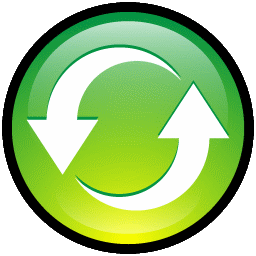
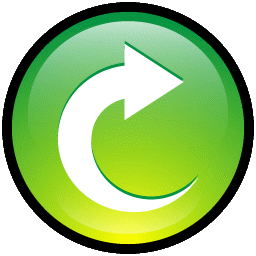
autoplay working pretty work

Changed region(s): [[0.0938, 0.1562, 0.9062, 0.8125], [0.4375, 0.8125, 0.625, 0.8438], [0.4688, 0.5312, 0.5312, 0.5938]]

diff --git a/jumbodrum.js b/jumbodrum.js
@@ -25,10 +25,11 @@ var textInput = "";
 
 var repertoire = {};
 var repertoireInfo = {'type':"", 'pos':-1};
-repertoire['SahmChae']= {'1':"j--g--h--f--h--g--j--g--h--f--h--g--j--g--h--f--h--g--j--g--h--f--h--g--j--g--h--f--h--g--j--g--h--f--h--g--j--g--h--f--h--g--j--f--j--f--j--f--", '2':"h-g-h-g---h-g-h-g---j--g--u---g--u---g--h-g-h-g-----h-g-h-g-----j--g--u---g--u---g--", '3':"j--r---h--g--u---g--j--g--u---g--u---g--j--r---h--g--u---g--j--g--u---g--u---g--"};
+repertoire['SahmChae']= {'1':"j--g--h--f--h--g--j--g--h--f--h--g--j--g--h--f--h--g--j--g--h--f--h--g--j--g--h--f--h--g--j--g--h--f--h--g--j--g--h--f--h--g--j--f--j--f--j--f--", '2':"h-g-h-g-----h-g-h-g-----j--g--u--g--u--g--h-g-h-g-----h-g-h-g-----j--g--u--g--u--g--", '3':"j--r--h--g--u--g--j--g--u--g--u--g--j--r--h--g--u--g--j--g--u--g--u--g--", "4":"j--r--h--g--u--g--j--r--h--g--u--g--j--r--h--g--u--g--j--r--u--r--u--r--", "5":"u-r-u-r-----h-g-h-g-----j--g--u--g--u--g--h-g-h-g-----u-r-u-r-----j--g--u--g--u--g--", "6":"u-r-u-r-----h-g-h-g-----h-g-h-g-----u-r-u-r-----u-r-u-r-----u-r-u-r-----u--r--h--g--u--r--", "7":"j--g--h--g--h--g--h--g--h--g--h--g--j--g--h--g--h--g--h--g--h--g--h--g--j--g--h--g--h--g--h--g--h--g--h--g--j--g--h--g--h--g--h--g--h--g--h--g--", "8":"j--g--h--g--h--g--j--g--h--g--h--g--j--g--h--g--h--g--j--g--h--g--h--g--j--g--h--g--h--g--j--g--h--g--h--g--j--g--h--g--h--g--j--g--h--g--h--g--", "9":"j--g--h--f--h--g--j--g--h--f--h--g--j--g--h--f--h--g--j--g--h--f--h--g--j--g--h--f--h--g--j--g--h--f--h--g--j--g--h--f--h--g--j--f--j--f--j--f--"};
 repertoire['Hwuimori'] = [];
 
 var textDisplay = [];
+var autoplayOn = false;
 
 // for speed
 var selection = {};
@@ -47,6 +48,7 @@ preload: function() {
     game.load.image('ButtonPlay', 'buttons/ButtonPlay.png');
     game.load.image('ButtonPause', 'buttons/ButtonPause.png');
     game.load.image('ButtonRewindPart', 'buttons/ButtonRewindPart.png');
+    game.load.image('ButtonAutoPlay', 'buttons/ButtonAutoPlay.png');
     
     game.load.image('selection_bar', 'buttons/selection_bar.png');
     game.load.image('selection_button', 'buttons/selection_button.png');
@@ -69,12 +71,14 @@ create: function()
         execButton['play'] = game.add.button(280, 550, 'ButtonPlay', function(){execButtonPressed('play');}, this, 0, 1, 2);
         execButton['pause'] = game.add.button(280, 550, 'ButtonPause', function(){execButtonPressed('pause');}, this, 0, 1, 2);
         execButton['rewindPart'] = game.add.button(380, 550, 'ButtonRewindPart', function(){execButtonPressed('rewindPart');}, this, 0, 1, 2); // start over the part
+        execButton['autoplay'] = game.add.button(580, 550, 'ButtonAutoPlay', function(){execButtonPressed('autoplay');}, this, 0, 1, 2); // autoplay from beginning to end
         
         execButton['next'].scale.setTo(0.3);
         execButton['prev'].scale.setTo(0.3);
         execButton['play'].scale.setTo(0.3);
         execButton['pause'].scale.setTo(0.3);
         execButton['rewindPart'].scale.setTo(0.3);
+        execButton['autoplay'].scale.setTo(0.3);
         
         execButton['pause'].kill();
         
@@ -98,6 +102,7 @@ create: function()
         textDisplay['type'] = game.add.text(310,20, "SahmChae", { font: "25px Arial", fill: "#000000", align: "center" });
         textDisplay['part'] = game.add.text(350,50, "part 1", { font: "15px Arial", fill: "#ff0044", align: "center" });
         textDisplay['speed'] = game.add.text(80,70, "speed 100%", { font: "15px Arial", fill: "#0000ff", align: "center" });
+        textDisplay['autoplayOn'] = game.add.text(580, 520, "autoplay: off", { font: "15px Arial", fill: "#0000ff", align: "center" });
         
         /* Adding all sounds */
         sound['strong'] = game.add.audio('SoundStrong');
@@ -163,10 +168,19 @@ function play() {
         textInput = textInput.substring(1); // get rid of char at 0
     }
     else { // textInput == "", thus it ran the whole thing
-        if (execButton['pause'] != undefined)
-            execButton['pause'].kill();
-        execButton['play'].reset(280,550);
+        if (autoplayOn == true) {
+            if (pauseText == "")
+                execButtonPressed('next');
+            else
+                execButtonPressed('play'); // resume
+        }
+        else { // autoplay off
+            if (execButton['pause'] != undefined)
+                execButton['pause'].kill();
+            execButton['play'].reset(280,550);
+        }
     }
+    
     window.setTimeout(play, 10000/speed);
 }
 
@@ -213,9 +227,26 @@ function keyClicked(key) {
 }
 
 function execButtonPressed(type) {
+    if (type == 'autoplay') {
+        if (autoplayOn == true) {
+            autoplayOn = false;
+            textDisplay['autoplayOn'].setText('autoplay: off');
+            return;
+        }
+        else if (autoplayOn == false)
+            autoplayOn = true;
+        if (execButton['play'] == undefined) // 'play' if it's not already playing
+            execButtonPressed('play');
+        textDisplay['autoplayOn'].setText('autoplay: on');
+    }
+    
     if (type == 'next') {
         if (repertoireInfo['pos'] < Object.keys(repertoire[repertoireInfo['type']]).length-1)
             repertoireInfo['pos']++; // go get next one unless this is the last one
+        else if (autoplayOn == true) {
+            execButtonPressed('pause');
+            return;
+        }
         
         textInput = repertoire[ repertoireInfo['type'] ][ Object.keys(repertoire[repertoireInfo['type']])[repertoireInfo['pos']] ];
         
@@ -238,6 +269,9 @@ function execButtonPressed(type) {
         execButton['pause'].reset(280,550);
     }
     else if (type == 'pause') {
+        autoplayOn = false;
+        textDisplay['autoplayOn'].setText('autoplay: off');
+        
         pauseText = textInput;
         textInput = "";
         
@@ -245,6 +279,9 @@ function execButtonPressed(type) {
         execButton['play'].reset(280,550);
     }
     else if (type == 'play') {
+        if (repertoireInfo['pos'] == -1)
+            repertoireInfo['pos'] = 0;
+        
         textInput = pauseText;
         pauseText = "";
         
@@ -269,11 +306,4 @@ function speedChange() {
     speed = ((selection['button'].x-selection['bar'].x) / selection['bar'].width) * 200;
     speed = speed.toFixed(2);
     textDisplay['speed'].setText("speed "+speed+"%");
-}
-
-function createRectangle(x, y, w, h) {
-    var sprite = game.add.graphics(x, y);
-    sprite.beginFill(Phaser.Color.getRandomColor(100, 255), 1);
-    sprite.drawRect(0, 0, w, h);
-    return sprite;
 }
